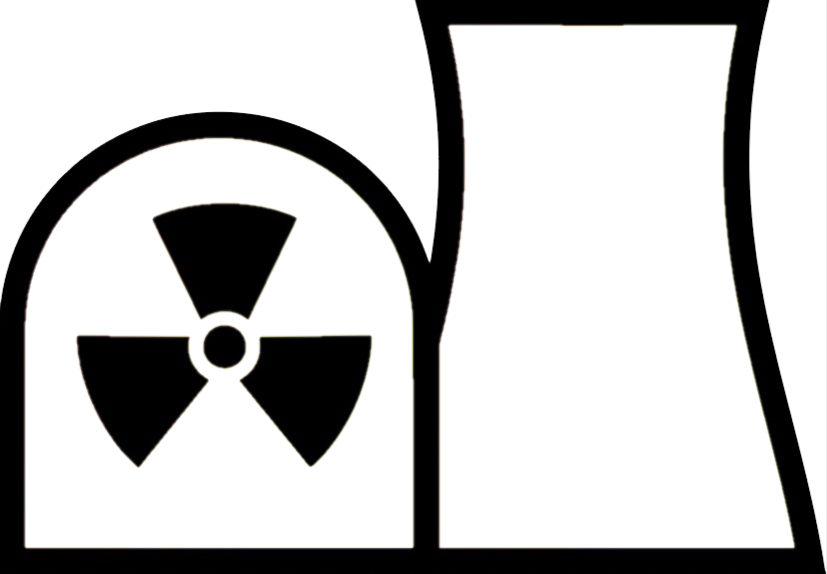
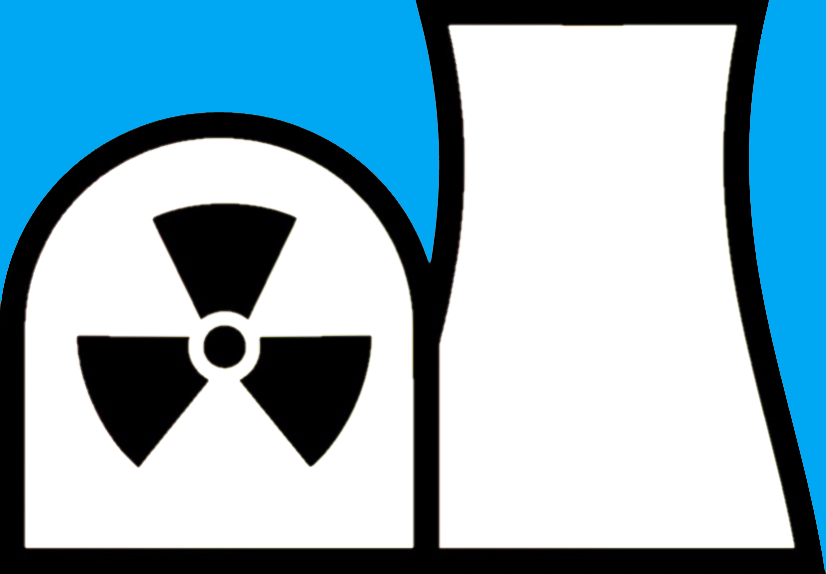
Rework
Updated image background to show bounds of masking.  Reworked the display for a better experience for the user to see the elements involved in image masking.  CSS was created to develop CSS Grid.

Changed region(s): [[0.0, 0.0, 0.5441, 0.5035], [0.9069, 0.0, 1.0, 1.0]]

diff --git a/index.html b/index.html
@@ -1,95 +1,166 @@
 <!DOCTYPE html>
 <html lang="en">
+
 <head>
-<meta charset="utf-8">
+  <meta charset="utf-8">
 
-<title>D3.js Image Mask Example</title>
+  <title>D3.js Image Mask Example</title>
 
-<style>
-
-  #image_mask {
-    mask-mode: luminance;
-    webkit-mask-mode: luminance;
-    mask-repeat: no-repeat;
-    webkit-mask-repeat: no-repeat;
-    /* mask-size: 200px;
-    webkit-mask-size: 200px; */
-    mask-position: center;
-    webkit-mask-position: center;
-  }
+  <style>
 
   </style>
 
-  </head>
+  <!-- d3.js -->
+  <script src="http://d3js.org/d3.v3.min.js"></script>
 
-  <body>
+  <link href="layout.css" rel="stylesheet" type="text/css">
 
-<!-- d3.js -->
-<script src="http://d3js.org/d3.v3.min.js"></script>
+</head>
 
-<script>
+<body>
 
-var svg_width = 900,
-    svg_height = 600,
-    image_height = 574, //image height is 574px
-    image_width = 827, //image width is 827px
-    image_location = "image.png",
-    mask_location = "mask.png";
+  <div class="wrapper">
 
-var svg =  d3.select("body").append("svg")
-          .attr("viewBox", [0, 0, svg_width,svg_height].join(' '));
+    <div class="img_cell">
+      <h4>IMAGE</h4>
+    </div>
+    <div class="plus_cell plus1">+</div>
 
-var g = svg.append("g")
-    .attr("transform", "translate(0, 0) scale(0.25)")
+    <div class="mask_cell">
+      <h4>MASK</h4>
+    </div>
+    <div class="plus_cell plus2">+</div>
 
-var y_scale = d3.scale.linear()
+    <div class="rect_cell">
+      <h4>FILL</h4>
+    </div>
+    <div class="equal_cell">=</div>
+
+    <div class="outcome_cell">
+      <h4>OUTCOME</h4>
+    </div>
+  </div>
+
+  <script>
+    var svg_width = 210,
+      svg_height = 150,
+      image_height = 574, //image height is 574px
+      image_width = 827, //image width is 827px
+      image_location = "image.png",
+      mask_location = "mask.png";
+
+    var y_scale = d3.scale.linear()
       .range([image_height, 0])
       .domain([0, 100]);
 
-var background_rect = g.append("rect")
-  .attr("class", "image_rect")
-  .attr("x", 5)
-  .attr("y", image_height)
-  .attr("width", image_width - 10)
-  .attr("height", 0)
-  .attr("clip-path", "url(#image_mask)")
-  .style("fill", "orange");
+    //Image with transparency
+    var initial_svg = d3.select(".img_cell").append("svg")
+      .attr("width", svg_width)
+      .attr("height", svg_height);
 
-var img_mask = g
-  .append('mask')
-    .attr("id", "image_mask")
-  .append("image")
-    .attr("xlink:href", mask_location)
-    .attr("width", image_width)
-    .attr("height", image_height)
-    .attr("x", 0)
-    .attr("y", 0);
+    var initial_g = initial_svg.append("g")
+      .attr("transform", "translate(0, 0) scale(0.25)");
 
-var img = g
-  .append("image")
-    .attr("xlink:href", image_location)
-    .attr("width", image_width)
-    .attr("height", image_height)
-    .attr("x", 0)
-    .attr("y", 0)
-    .attr("mask", "url(#nuclear_mask)");
+    var initial_img = initial_g
+      .append("image")
+      .attr("xlink:href", image_location)
+      .attr("width", image_width)
+      .attr("height", image_height)
+      .attr("x", 0)
+      .attr("y", 0)
+      .attr("mask", "url(#nuclear_mask)");
 
-var inter = setInterval(function() {
-                imgTransition();
-        }, 2000);
+    //Image Mask
+    var mask_svg = d3.select(".mask_cell").append("svg")
+      .attr("width", svg_width)
+      .attr("height", svg_height);
 
-function imgTransition(){
+    var mask_g = mask_svg.append("g")
+      .attr("transform", "translate(0, 0) scale(0.25)");
 
-  var random_data = Math.floor(Math.random() * 101);
+    var mask_img = mask_g
+      .attr("class", "image_mask")
+      .append("image")
+      .attr("xlink:href", mask_location)
+      .attr("width", image_width)
+      .attr("height", image_height)
+      .attr("x", 0)
+      .attr("y", 0);
 
-  background_rect.transition()
-    .duration(1000)
-    .ease("linear")
-      .attr("height", image_height - y_scale(random_data))
-      .attr("y", y_scale(random_data));
-};
+    //Background Fill Rectangle
+    var rect_svg = d3.select(".rect_cell").append("svg")
+      .attr("width", svg_width)
+      .attr("height", svg_height);
 
-</script>
+    var rect_g = rect_svg.append("g")
+      .attr("transform", "translate(0, 0) scale(0.25)");
 
-  </body>
+    var initial_background_rect = rect_g.append("rect")
+      .attr("class", "image_rect")
+      .attr("x", 5)
+      .attr("y", image_height)
+      .attr("width", image_width - 10)
+      .attr("height", 0)
+      .style("fill", "orange");
+
+    //Outcome svg
+    var outcome_svg = d3.select(".outcome_cell").append("svg")
+      .attr("width", svg_width)
+      .attr("height", svg_height);
+
+    var outcome_g = outcome_svg.append("g")
+      .attr("transform", "translate(0, 0) scale(0.25)");
+
+    var outcome_background_rect = outcome_g.append("rect")
+      .attr("class", "image_rect")
+      .attr("x", 5)
+      .attr("y", image_height)
+      .attr("width", image_width - 10)
+      .attr("height", 0)
+      .attr("clip-path", "url(#image_mask)")
+      .style("fill", "orange");
+
+    var outcome_img_mask = outcome_g
+      .append('mask')
+      .attr("class", "image_mask")
+      .append("image")
+      .attr("xlink:href", mask_location)
+      .attr("width", image_width)
+      .attr("height", image_height)
+      .attr("x", 0)
+      .attr("y", 0);
+
+    var outcome_img = outcome_g
+      .append("image")
+      .attr("xlink:href", image_location)
+      .attr("width", image_width)
+      .attr("height", image_height)
+      .attr("x", 0)
+      .attr("y", 0)
+      .attr("mask", "url(#nuclear_mask)");
+
+    var inter = setInterval(function () {
+      imgTransition();
+    }, 2000);
+
+    function imgTransition() {
+
+      var random_data = Math.floor(Math.random() * 101);
+
+      initial_background_rect.transition()
+        .duration(1000)
+        .ease("linear")
+        .attr("height", image_height - y_scale(random_data))
+        .attr("y", y_scale(random_data));
+
+      outcome_background_rect.transition()
+        .duration(1000)
+        .ease("linear")
+        .attr("height", image_height - y_scale(random_data))
+        .attr("y", y_scale(random_data));
+    };
+  </script>
+
+</body>
+
 </html>

diff --git a/layout.css b/layout.css
@@ -1,0 +1,67 @@
+* {
+    box-sizing: border-box;
+}
+
+h4 {
+    margin: 1px;
+    padding: 0px;
+}
+
+.wrapper {
+    display: grid;
+    width: 100%;
+    height: 100%;
+    grid-template-areas: "img_cell equal_cell outcome_cell"
+        "plus1_cell equal_cell outcome_cell"
+        "mask_cell equal_cell outcome_cell"
+        "plus2_cell equal_cell outcome_cell"
+        "rect_cell equal_cell outcome_cell";
+    grid-template-rows: 200px 50px 200px 50px 200px;
+    grid-template-columns: repeat(3, 200px);
+    grid-gap: 2px;
+}
+
+.wrapper>div {
+    align-self: center;
+    justify-self: center;
+}
+
+.plus_cell,
+.equal_cell {
+    font-weight: 900;
+    font-size: 2rem;
+}
+
+.img_cell {
+    grid-area: img_cell;
+}
+
+.plus1 {
+    grid-area: plus1_cell;
+}
+
+.mask_cell {
+    grid-area: mask_cell;
+}
+
+.plus2 {
+    grid-area: plus2_cell;
+}
+
+.rect_cell {
+    grid-area: rect_cell;
+}
+
+.equal_cell {
+    grid-area: equal_cell;
+}
+
+.outcome_cell {
+    grid-area: outcome_cell;
+}
+
+.image_mask {
+    mask-mode: luminance;
+    mask-repeat: no-repeat;
+    mask-position: center;
+}
